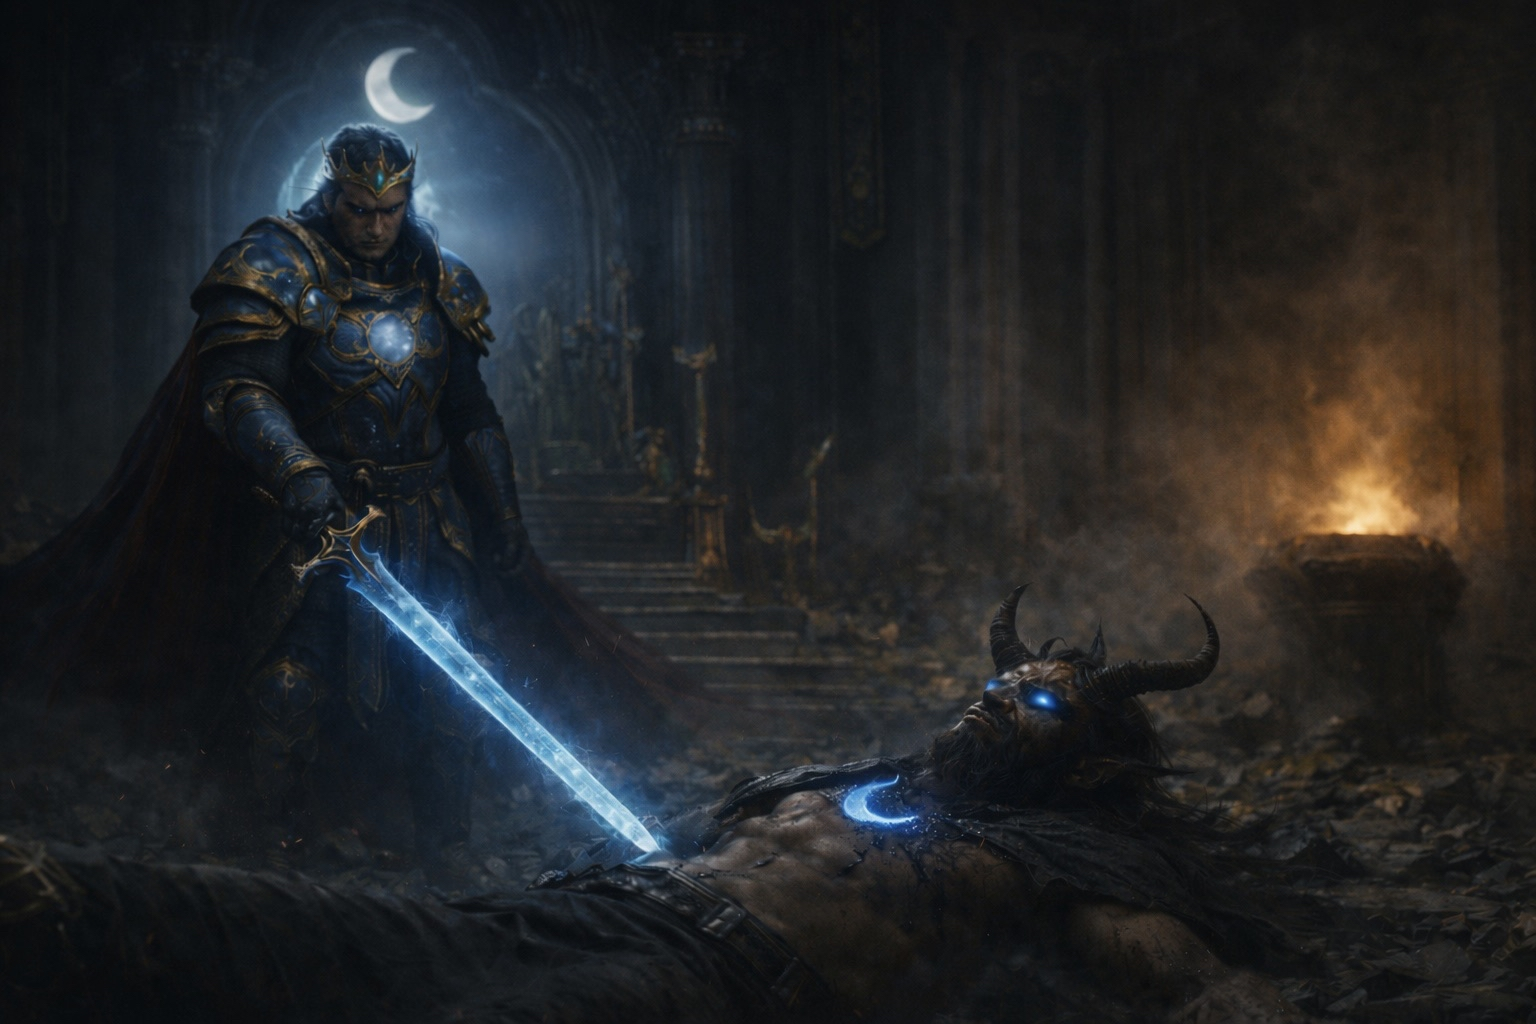
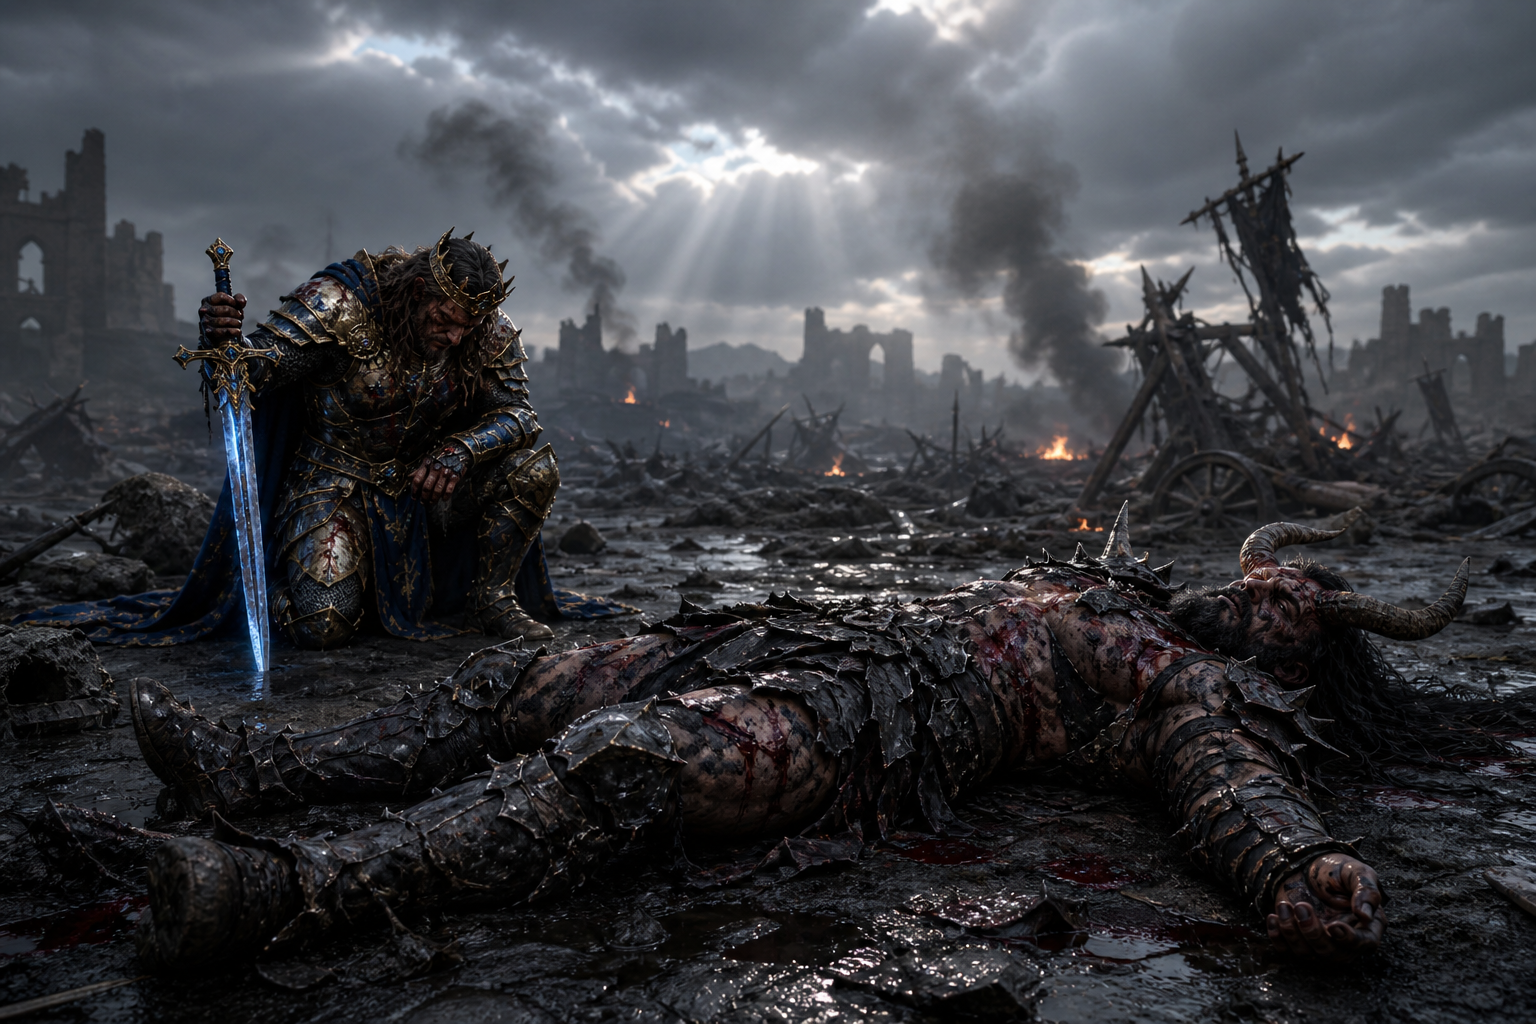
chore(assets): replace GrandFantasy hero + Chronicles + add R2 uploaders
GrandFantasyHero.jpg side-loaded to R2 at:
  - backgrounds/GrandFantasyHero.jpeg          (website /grand-fantasy hero)
  - jester/backgrounds/Map_Video/GrandFantasy.png (Luna Map → Grand Fantasy)
Cache-bust on the website /grand-fantasy hero is now driven by
NEXT_PUBLIC_BUILD_ID like the other Hero images.

Chronicles homepage image replaced in-tree:
  public/story/champion.png ← Desktop/Chronicles img.png

Helper scripts retained under /scripts so future re-uploads bypass
the dashboard's silent body-parser limit (multipart upload refused
big files with no error toast).

diff --git a/src/app/[locale]/grand-fantasy/CardsContent.tsx b/src/app/[locale]/grand-fantasy/CardsContent.tsx
@@ -50,7 +50,7 @@ export function CardsContent({ cards, locale }: CardsContentProps) {
           <EImg
             editId="grand-fantasy-hero-bg"
             source="r2"
-            src="https://assets.lunarian.app/backgrounds/GrandFantasyHero.jpeg"
+            src={`https://assets.lunarian.app/backgrounds/GrandFantasyHero.jpeg?v=${process.env.NEXT_PUBLIC_BUILD_ID ?? process.env.NEXT_PUBLIC_VERCEL_GIT_COMMIT_SHA ?? process.env.NEXT_PUBLIC_RAILWAY_DEPLOYMENT_ID ?? '1'}`}
             alt="Grand Fantasy Card Game"
             fill
             priority
